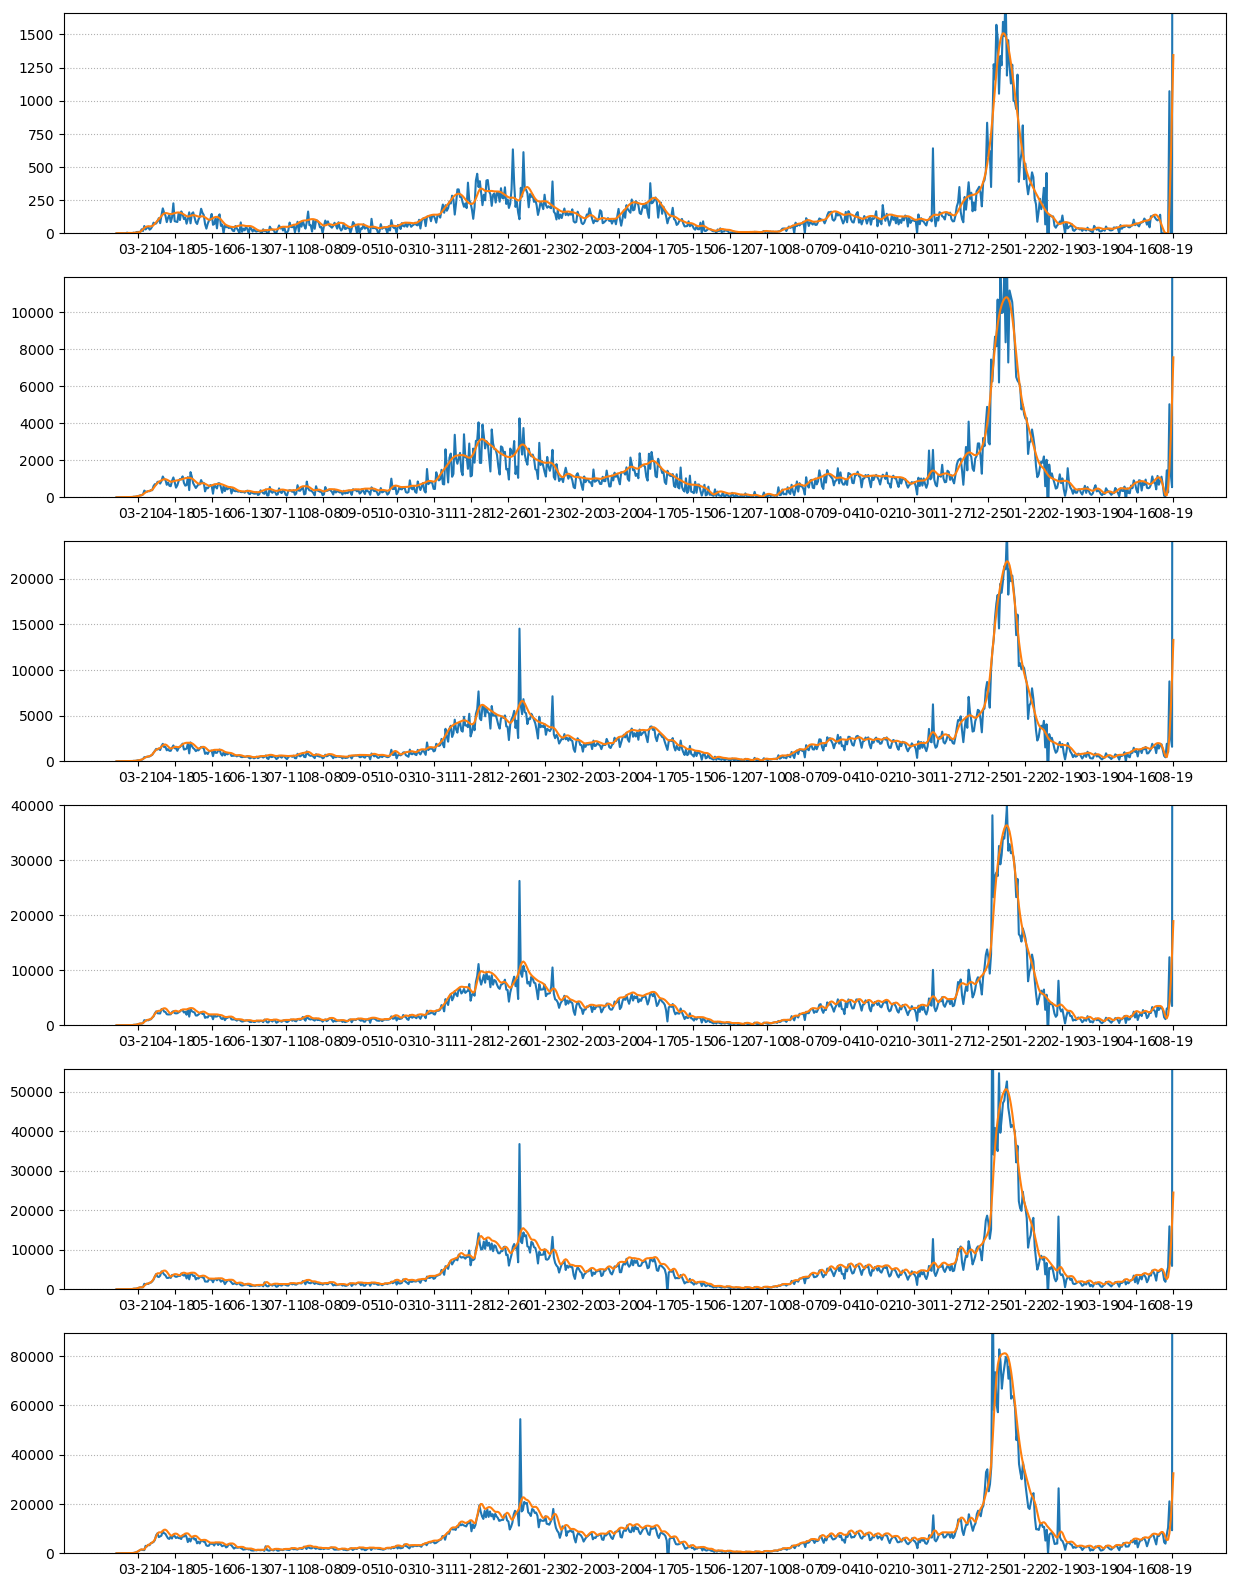
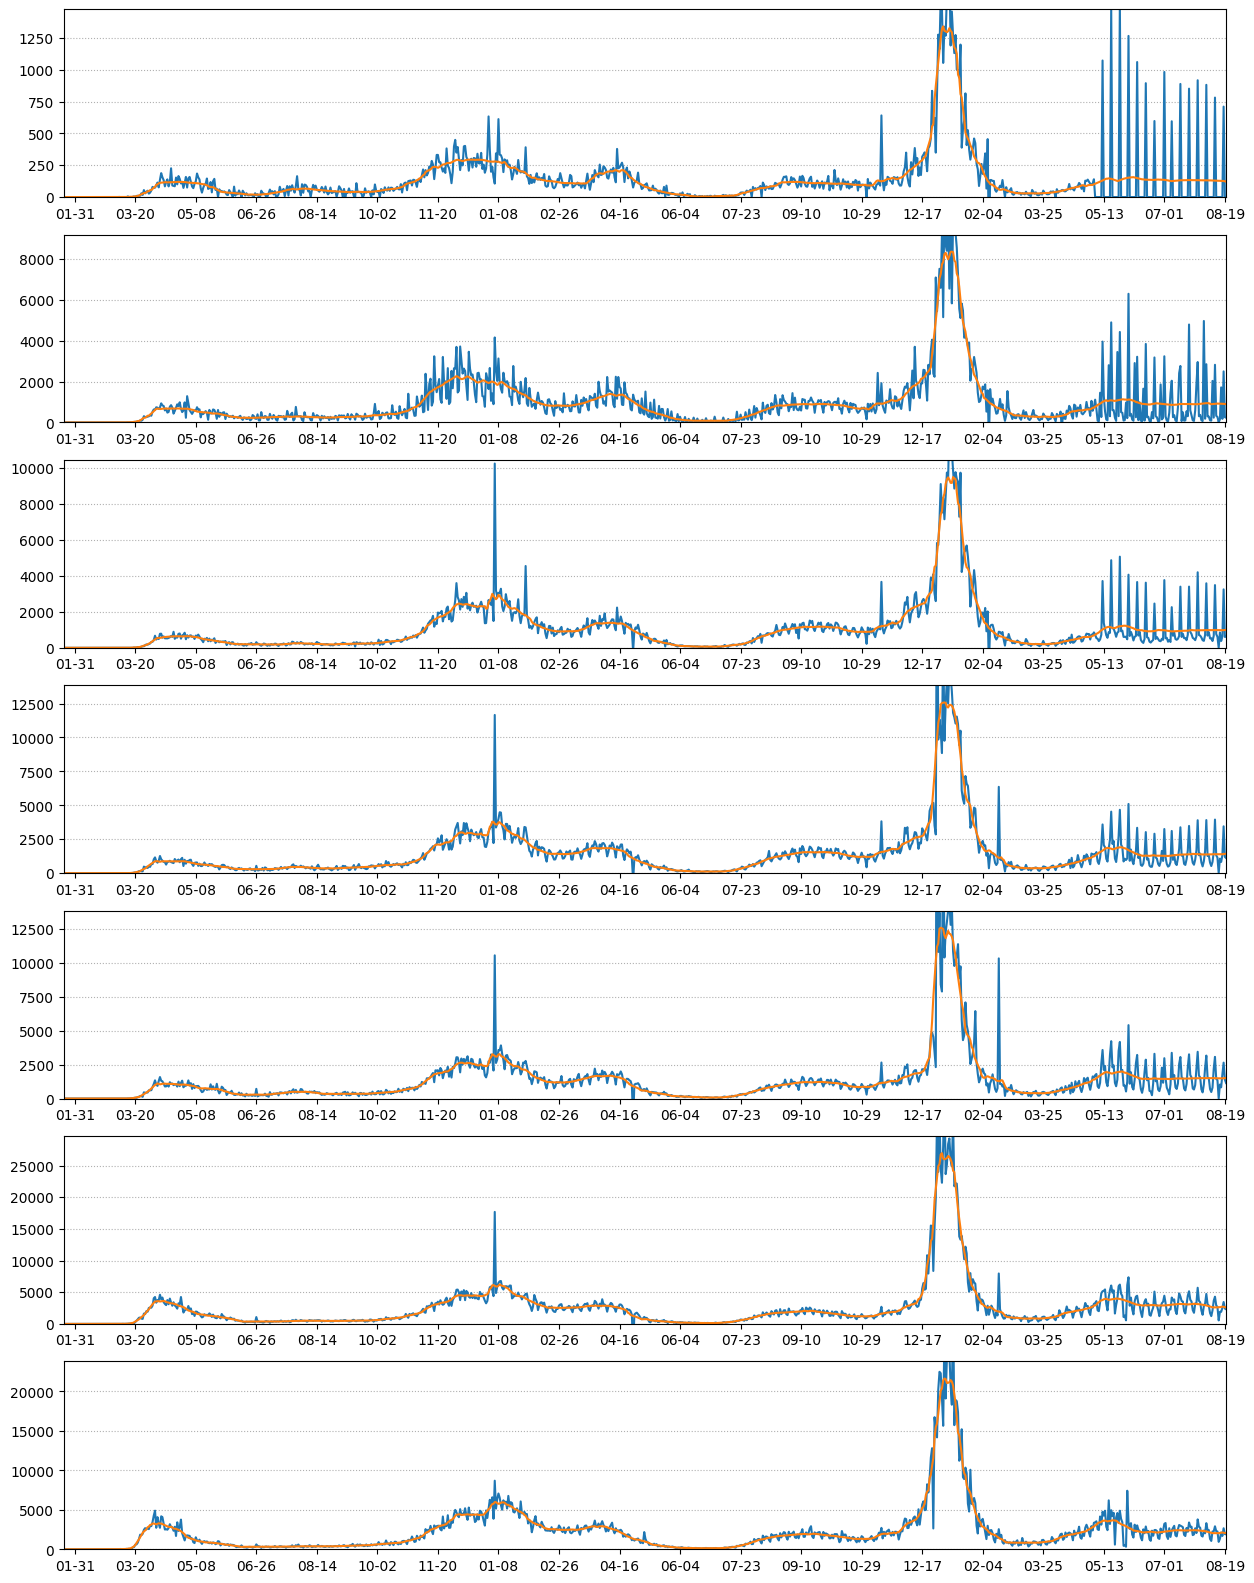
Updated Daily Analysis

Changed region(s): [[0.0, 0.0, 1.0, 1.0]]

diff --git a/dailymessage.html b/dailymessage.html
@@ -1,0 +1,46 @@
+Delaware County COVID-19 Monitor<br>
+as of 2022-08-19<br>
+<table border="1" cellspacing="5" cellpadding="3">
+<tr>
+<td>0</td>
+<td>122</td>
+<td>566747</td>
+<td>21.5</td>
+</tr>
+<tr>
+<td>1</td>
+<td>893</td>
+<td>3790357</td>
+<td>23.5</td>
+</tr>
+<tr>
+<td>2</td>
+<td>1002</td>
+<td>3694941</td>
+<td>27.1</td>
+</tr>
+<tr>
+<td>3</td>
+<td>1437</td>
+<td>5275121</td>
+<td>27.2</td>
+</tr>
+<tr>
+<td>4</td>
+<td>1507</td>
+<td>5171712</td>
+<td>29.1</td>
+</tr>
+<tr>
+<td>5</td>
+<td>2591</td>
+<td>8741877</td>
+<td>29.6</td>
+</tr>
+<tr>
+<td>6</td>
+<td>2044</td>
+<td>7630585</td>
+<td>26.7</td>
+</tr>
+</table>

diff --git a/dailysummary.py b/dailysummary.py
@@ -1,0 +1,140 @@
+import ast,re,os,datetime
+import matplotlib.pyplot as plt
+import datamollify
+
+write_to = 'dailymessage.html'
+
+todaydate = datetime.date.today().strftime("%Y-%m-%d")
+yesterday = datetime.date.today() - datetime.timedelta(days=1)
+yesterdaydate = yesterday.strftime("%Y-%m-%d")
+print('Ignoring Data for',todaydate)
+
+def deaccumulate(datalist):
+    result = []
+    for index in range(len(datalist)):
+        if index == 0:
+            result.append(datalist[0])
+        else:
+            result.append(datalist[index] - datalist[index-1])
+    return result
+
+nyt_year_file = '../covid-19-data/us-counties-{year}.csv'
+nyt_live = '../covid-19-data/live/us-counties.csv'
+max_radius = 6 # Can go up to 12
+smooth_scale = 7 # days
+
+#filedata = open('./census/fipsdata.py','r').read()
+#codes = ast.literal_eval(filedata)
+
+# Sample data
+# Delco FIPS = 42045
+# codes['42045'] = {'name': 'Delaware County, Pennsylvania', 'state': 'Pennsylvania', 'county': 'Delaware County', 'pop2019': 566747, 'dpop2019': 1516, 'adjacent': ['10003', '34015', '42029', '42091', '42101'], 'area_land': 183.84, 'area_total': 190.6}
+
+#counties = {}
+#counties['42045'] = {'dist' : 0, 'pop' : codes['42045']['pop2019']}
+# for radius in range(1,max_radius+1):
+#     newcohort = {}
+#     for fipscode in counties:
+#         if counties[fipscode]['dist'] == radius - 1:
+#             for neighborfips in codes[fipscode]['adjacent']:
+#                 if neighborfips not in counties and neighborfips not in newcohort:
+#                     newcohort[neighborfips] = {'dist' : radius, 'pop' : codes[neighborfips]['pop2019']}
+#     for fips in newcohort:
+#         counties[fips] = newcohort[fips]
+
+counties = {'42045': {'dist': 0, 'pop': 566747}, '10003': {'dist': 1, 'pop': 558753}, '34015': {'dist': 1, 'pop': 291636}, '42029': {'dist': 1, 'pop': 524989}, '42091': {'dist': 1, 'pop': 830915}, '42101': {'dist': 1, 'pop': 1584064}, '10001': {'dist': 2, 'pop': 180786}, '24015': {'dist': 2, 'pop': 102855}, '24029': {'dist': 2, 'pop': 19422}, '34033': {'dist': 2, 'pop': 62385}, '34001': {'dist': 2, 'pop': 263670}, '34007': {'dist': 2, 'pop': 506471}, '34011': {'dist': 2, 'pop': 149527}, '42011': {'dist': 2, 'pop': 421164}, '42071': {'dist': 2, 'pop': 545724}, '42017': {'dist': 2, 'pop': 628270}, '42077': {'dist': 2, 'pop': 369318}, '34005': {'dist': 2, 'pop': 445349}, '10005': {'dist': 3, 'pop': 234225}, '24011': {'dist': 3, 'pop': 33406}, '24035': {'dist': 3, 'pop': 50381}, '34009': {'dist': 3, 'pop': 92039}, '24025': {'dist': 3, 'pop': 255441}, '24003': {'dist': 3, 'pop': 579234}, '24005': {'dist': 3, 'pop': 827370}, '34029': {'dist': 3, 'pop': 607186}, '42075': {'dist': 3, 'pop': 141793}, '42107': {'dist': 3, 'pop': 141359}, '42043': {'dist': 3, 'pop': 278299}, '42133': {'dist': 3, 'pop': 449058}, '34019': {'dist': 3, 'pop': 124371}, '34021': {'dist': 3, 'pop': 367430}, '34041': {'dist': 3, 'pop': 105267}, '42095': {'dist': 3, 'pop': 305285}, '42025': {'dist': 3, 'pop': 64182}, '34025': {'dist': 3, 'pop': 618795}, '24019': {'dist': 4, 'pop': 31929}, '24045': {'dist': 4, 'pop': 103609}, '24047': {'dist': 4, 'pop': 52276}, '24041': {'dist': 4, 'pop': 37181}, '24009': {'dist': 4, 'pop': 92525}, '24027': {'dist': 4, 'pop': 325690}, '24033': {'dist': 4, 'pop': 909327}, '24510': {'dist': 4, 'pop': 593490}, '24013': {'dist': 4, 'pop': 168447}, '42037': {'dist': 4, 'pop': 64964}, '42079': {'dist': 4, 'pop': 317417}, '42097': {'dist': 4, 'pop': 90843}, '42041': {'dist': 4, 'pop': 253370}, '42067': {'dist': 4, 'pop': 24763}, '42099': {'dist': 4, 'pop': 46272}, '42001': {'dist': 4, 'pop': 103009}, '34027': {'dist': 4, 'pop': 491845}, '34035': {'dist': 4, 'pop': 328934}, '34023': {'dist': 4, 'pop': 825062}, '34037': {'dist': 4, 'pop': 140488}, '42089': {'dist': 4, 'pop': 170271}, '36081': {'dist': 4, 'pop': 2253858}, '36085': {'dist': 4, 'pop': 476143}, '24037': {'dist': 5, 'pop': 113510}, '24039': {'dist': 5, 'pop': 25616}, '51001': {'dist': 5, 'pop': 32316}, '24017': {'dist': 5, 'pop': 163257}, '24021': {'dist': 5, 'pop': 259547}, '24031': {'dist': 5, 'pop': 1050688}, '11001': {'dist': 5, 'pop': 705749}, '51059': {'dist': 5, 'pop': 1147532}, '51510': {'dist': 5, 'pop': 159428}, '42081': {'dist': 5, 'pop': 113299}, '42093': {'dist': 5, 'pop': 18230}, '42113': {'dist': 5, 'pop': 6066}, '42069': {'dist': 5, 'pop': 209674}, '42131': {'dist': 5, 'pop': 26794}, '42109': {'dist': 5, 'pop': 40372}, '42119': {'dist': 5, 'pop': 44923}, '42055': {'dist': 5, 'pop': 155027}, '42061': {'dist': 5, 'pop': 45144}, '42087': {'dist': 5, 'pop': 46138}, '34013': {'dist': 5, 'pop': 798975}, '34031': {'dist': 5, 'pop': 501826}, '34039': {'dist': 5, 'pop': 556341}, '36071': {'dist': 5, 'pop': 384940}, '42103': {'dist': 5, 'pop': 55809}, '42127': {'dist': 5, 'pop': 51361}, '36005': {'dist': 5, 'pop': 1418207}, '36047': {'dist': 5, 'pop': 2559903}, '36059': {'dist': 5, 'pop': 1356924}, '36061': {'dist': 5, 'pop': 1628706}, '34017': {'dist': 5, 'pop': 672391}, '51133': {'dist': 6, 'pop': 12095}, '51193': {'dist': 6, 'pop': 18015}, '51103': {'dist': 6, 'pop': 10603}, '51115': {'dist': 6, 'pop': 8834}, '51119': {'dist': 6, 'pop': 10582}, '51131': {'dist': 6, 'pop': 11710}, '51099': {'dist': 6, 'pop': 26836}, '51153': {'dist': 6, 'pop': 470335}, '51179': {'dist': 6, 'pop': 152882}, '24043': {'dist': 6, 'pop': 151049}, '51107': {'dist': 6, 'pop': 413538}, '51013': {'dist': 6, 'pop': 236842}, '51600': {'dist': 6, 'pop': 24019}, '51610': {'dist': 6, 'pop': 14617}, '42015': {'dist': 6, 'pop': 60323}, '42035': {'dist': 6, 'pop': 38632}, '42105': {'dist': 6, 'pop': 16526}, '42117': {'dist': 6, 'pop': 40591}, '42115': {'dist': 6, 'pop': 40328}, '42027': {'dist': 6, 'pop': 162385}, '42057': {'dist': 6, 'pop': 14530}, '42009': {'dist': 6, 'pop': 47888}, '42013': {'dist': 6, 'pop': 121829}, '34003': {'dist': 6, 'pop': 932202}, '36087': {'dist': 6, 'pop': 325789}, '36027': {'dist': 6, 'pop': 294218}, '36079': {'dist': 6, 'pop': 98320}, '36105': {'dist': 6, 'pop': 75432}, '36111': {'dist': 6, 'pop': 177573}, '36007': {'dist': 6, 'pop': 190488}, '36025': {'dist': 6, 'pop': 44135}, '36119': {'dist': 6, 'pop': 967506}, '09001': {'dist': 6, 'pop': 943332}, '36103': {'dist': 6, 'pop': 1476601}}
+
+
+csvqueue = []
+year = 2020
+while os.path.exists(nyt_year_file.format(year=year)):
+    csvqueue.append(nyt_year_file.format(year=year))
+    year += 1
+if os.path.exists(nyt_live):
+    csvqueue.append(nyt_live)
+
+dates = {}
+for csvfile in csvqueue:
+    mycsv_rows = open(csvfile,'r').readlines()
+    for row in mycsv_rows:
+        cols = re.split(r',|\n',row)
+        if cols[0] != 'date':
+            dates[cols[0]] = True
+            if cols[3] in counties:
+                if 'data' not in counties[cols[3]]:
+                    counties[cols[3]]['data'] = {}
+                counties[cols[3]]['data'][cols[0]] = int(cols[4])
+
+dates = list(dates.keys())
+dates.sort()
+if dates[-1] == todaydate:
+    del dates[-1]
+
+for county in counties:
+    if 'data' in counties[county]:
+        datalist = []
+        for date in dates:
+            if date in counties[county]['data']:
+                datalist.append(counties[county]['data'][date])
+            elif len(datalist) == 0:
+                datalist.append(0)
+            else:
+                datalist.append(datalist[-1])
+        #datalist = deaccumulate(datalist)
+        #datalist = datamollify.smoothit(datalist,smooth_scale)
+        counties[county]['data'] = datalist
+
+all_data = {}
+population = {}
+rate_today = {}
+
+for radius in range(max_radius+1):
+    all_data[radius] = [0] * len(dates)
+
+for county in counties:
+    if 'data' in counties[county]:
+        radius = counties[county]['dist']
+        if radius not in population:
+            population[radius] = 0
+        population[radius] += counties[county]['pop']
+        for index,value in enumerate(counties[county]['data']):
+            all_data[radius][index] += value
+
+numplots = max_radius + 1
+
+fig, ax = plt.subplots(numplots,1,figsize=(15,20))
+tickno = []
+tickl = []
+datespan = int(len(dates)/119)*7
+
+for index in range(len(dates)):
+    if (index - len(dates)+1) % datespan == 0:
+        tickno.append(index-1)
+        tickl.append(dates[index][5:10])
+for index in range(numplots):
+    plt.subplot(ax[index])
+    plt.xticks(tickno,tickl)
+    plt.margins(x=0)
+    ax[index].grid(axis='y',linestyle=':')
+    minlist,maxlist = datamollify.minmax(all_data[index],8)
+    deriv = datamollify.differentiate(minlist,maxlist)
+    rate_today[index] = int(deriv[-1]+0.5)
+    ax[index].plot(range(len(dates)),deaccumulate(all_data[index]))
+    ax[index].plot(range(len(dates)),deriv)
+    ax[index].set_ylim(bottom=0,top=1.1*max(deriv))
+#plt.yscale('log')
+fig.savefig('plotnearby.png',bbox_inches='tight')
+
+htmlmessage = 'Delaware County COVID-19 Monitor<br>\n'
+htmlmessage += 'as of ' + dates[-1] + '<br>\n'
+htmlmessage += '<table border="1" cellspacing="5" cellpadding="3">\n'
+
+for index in range(max_radius+1):
+    htmlmessage += '<tr>\n'
+    packet = [index,rate_today[index],population[index],int(1000000*rate_today[index]/population[index])/10]
+    for item in packet:
+        htmlmessage += '<td>' + str(item) + '</td>\n'
+    htmlmessage += '</tr>\n'
+htmlmessage += '</table>'
+
+open(write_to,'w').write(htmlmessage)

diff --git a/datamollify.py b/datamollify.py
@@ -1,0 +1,175 @@
+# int (x+d) e^{t x} x = 0..r
+# [e^{tr} (td + tr - 1) + (-td + 1)] t^{-2}
+
+# (x+d) (e^{tx}-1) t^{-1} |_0^r - (e^{tx} - tx - 1) t^{-2} |_0^r
+# (r+d) r (rt)^{-1} (e^{tr} - 1) - r^2 (rt)^{-2} (e^{tr} - tr - 1)
+
+
+def exp(t,k=0): # only valid for k = 0,1,2
+    if k == 0:
+        if t < 0:
+            return 1.0/exp(-t)
+        if t >= 2:
+            tempval = exp(t * 0.5)
+            return tempval * tempval
+        if t >= 1:
+            return exp(t-1) * 2.718281828459045235
+    if t > 1 or t < -1:
+        if k == 1:
+            return (exp(t,0) - 1.0)/t
+        if k == 2:
+            return (exp(t,0) - 1.0 - t)/(t*t)
+    count = 0
+    term = 1.0
+    while count < k:
+        count += 1
+        term /= count
+    total = term
+    while term > 1e-23 or term < -1e-23:
+        count += 1
+        term = term * t / count
+        total += term
+    return total
+
+def special_integral(startval,rate,timelength):
+    dummy = rate*timelength
+    return ((startval + timelength) * exp(dummy,1) - timelength * exp(dummy,2))*timelength
+
+def special_sum(startval,rate,timesteps):
+    factor = exp(rate,0)
+    collected = factor
+    total = 0
+    for index in range(timesteps):
+        total += (index+1+startval) * collected
+        collected *= factor
+    return total
+def generate_sequence(startval,rate,timesteps):
+    factor = exp(rate,0)
+    collected = factor
+    result = []
+    for index in range(timesteps):
+        result.append((index+1+startval) * collected)
+        collected *= factor
+    return result
+
+def findrate(startval,integral,timelength):
+    guessrate_low = 0
+    check = special_sum(startval,guessrate_low,timelength)
+    while check > integral:
+        guessrate_low -= 1
+        guessrate_low *= 2
+        check = special_sum(startval,guessrate_low,timelength)
+        if guessrate_low < -100:
+            return [0] * timelength
+    guessrate_high = 0
+    check = special_sum(startval,guessrate_high,timelength)
+    while check <= integral:
+        guessrate_high += 1
+        guessrate_high *= 2
+        check = special_sum(startval,guessrate_high,timelength)
+    for iteration in range(40):
+        guessrate_mid = (guessrate_low+guessrate_high)*0.5
+        check = special_sum(startval,guessrate_mid,timelength)
+        if check < integral:
+            guessrate_low = guessrate_mid
+        else:
+            guessrate_high = guessrate_mid
+    return generate_sequence(startval,guessrate_mid,timelength)
+
+def smoothit(dataseries,chunksize):
+    mismatch = len(dataseries) % chunksize
+    newseries = []
+    if mismatch > 0:
+        mismatch = chunksize - mismatch
+        newseries = [0] * mismatch
+    # mismatch = how many datapoints need to be added to make a multiple
+    newseries = newseries + dataseries
+    windows = int(len(newseries)/chunksize)
+    chunks = [[]]
+    for index in range(len(newseries)):
+        if len(chunks[-1]) == chunksize:
+            chunks.append([])
+        chunks[-1].append(newseries[index])
+    smoothed = []
+    startval = 0
+    for chunk in chunks:
+        total = sum(chunk)
+        result = findrate(startval,total,chunksize)
+        startval = result[-1]
+        for value in result:
+            smoothed.append(int(value + 0.5))
+    return smoothed[mismatch:len(smoothed)]
+
+def nextstep(position,step,listsize):
+    if step < 0:
+        nextstep = -step
+    else:
+        nextstep = -(step + 1)
+    if position + nextstep >= 0 and position + nextstep < listsize:
+        return nextstep
+    if nextstep < 0:
+        nextstep = -nextstep
+    else:
+        nextstep = -(nextstep + 1)
+    if position + nextstep >= 0 and position + nextstep < listsize:
+        return nextstep
+    return None
+
+def oldnextstep(position,step,listsize):
+    step = step -1
+    if position + step < 0:
+        return None
+    return step
+
+def slope_inside(lowerbound,upperbound,atindex):
+    if atindex == 0:
+        return 0
+    min_slope = lowerbound[atindex] - upperbound[atindex-1]
+    max_slope = upperbound[atindex] - lowerbound[atindex-1]
+    step = -1
+    while True:
+        step = nextstep(atindex,step,len(lowerbound))
+        if step is None:
+            return 0.5 * (max_slope + min_slope)
+        newmin = (lowerbound[atindex+step] - upperbound[atindex])/step
+        newmax = (upperbound[atindex+step] - lowerbound[atindex])/step
+        if step < 0:
+            temp = newmin
+            newmin = newmax
+            newmax = temp
+        if newmin > max_slope or newmax < min_slope:
+            return 0.5 * (max_slope + min_slope)
+        else:
+            min_slope = max(min_slope,newmin)
+            max_slope = min(max_slope,newmax)
+
+def minmax(dataseries,timescale):
+    length = len(dataseries)
+    minlist = [0] * length
+    maxlist = [0] * length
+    for index in range(length):
+        minlist[index] = dataseries[index]
+        maxlist[index] = dataseries[index]
+    for index in range(length):
+        for lookahead in range(1,timescale):
+            if index + lookahead < length:
+                first = dataseries[index]
+                last = dataseries[index+lookahead]
+                for midpoint in range(1,lookahead):
+                    average = (first * (lookahead - midpoint) + last * midpoint)/lookahead
+                    minlist[index+midpoint] = min(minlist[index+midpoint],average)
+                    maxlist[index+midpoint] = max(maxlist[index+midpoint],average)
+    return [minlist,maxlist]
+
+def differentiate(lowerdata,upperdata):
+    result = []
+    localmin = []
+    localmax = []
+    for index in range(len(lowerdata)):
+        if index == 0:
+            result.append(0)
+        else:
+            localmin.append(lowerdata[index])
+            localmax.append(upperdata[index])
+            result.append(slope_inside(lowerdata,upperdata,index))
+    return result

diff --git a/ifttt.py b/ifttt.py
@@ -1,0 +1,12 @@
+import requests,re
+
+private_url = open('../ifttturl.txt','r').read()
+htmlmessage = open('dailymessage.html','r').read()
+
+
+string1 = "Delware County COVID-19 Monitor<br>\nAs of " + dateline + '<br>\n'
+string2 = htmlmessage
+string3 = '<img src="https://github.com/ptgressman/COVIDanalysis/blob/master/plotnearby.png?raw=true">'
+string3 +='<br><img src="https://github.com/ptgressman/COVIDanalysis/blob/master/hospital.png?raw=true">'
+string3 +='<br><img src="https://public.tableau.com/static/images/D1/D1LastWeek/LastWeek/1.png">'
+r = requests.post(private_url, params={"value1":string1,"value2":string2,"value3":string3})
